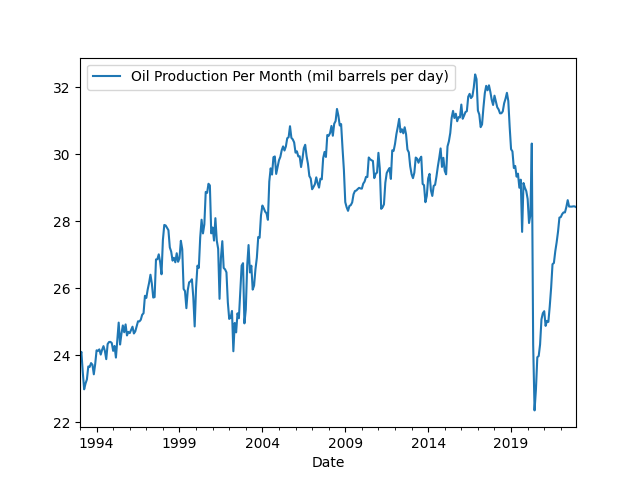
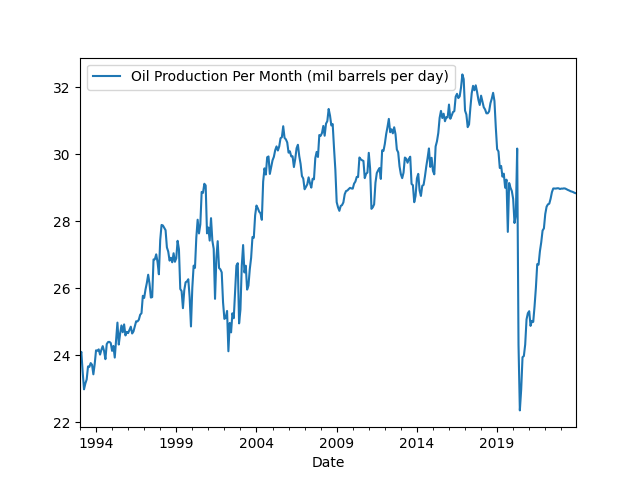
-

diff --git a/en/README.md b/en/README.md
@@ -67,17 +67,23 @@ amount of goods, it chases after more amt of goods - no inflation.
 ---
 
 Because businesses work on credit, and credit is always newly printed
-money, when businesses hand out salaries they are handing out new
-money. That could result in inflation.
+money, so when businesses hand out salaries they are handing out that
+new money. That could result in inflation.
 
 "If printing money and handing it to people creates inflation why do
 wage increases cause inflation?"
 
 ---
 
-Gas prices were pretty high during W even higher than
-now.. Interesting, the uptrend seems to have started at around 2003 --
-after the invasion of Iraq? Major uptick again post Libya 2011.
+Opec oil production is down for sure.
+
+[[-]](2019/05/stats.md#opec)
+
+---
+
+Gas prices were high during W, even higher than now.. Interesting, the
+uptrend seems to have started at around 2003 -- after the invasion of
+Iraq? Major uptick again post Libya 2011.
 
 [[-]](2019/05/stats.md#gasoline)
 
@@ -93,7 +99,7 @@ California's high-speed train project. States offload too much onto
 the private sector, they are not retaining the key skills in their own
 bureucracies who can plan, manage? 2014, CA outsources to a company
 called Dragados, 'cost reduction' ended up costing *more*. How did
-that slip by?
+that slip by the officials?
 
 ---
 

diff --git a/en/2019/05/stats.md b/en/2019/05/stats.md
@@ -752,11 +752,11 @@ plt.savefig('opec.png')
 
 ```text
 Date
-2022-12-01    28.425791
-2022-11-01    28.447132
-2022-10-01    28.448527
-2022-09-01    28.439812
-2022-08-01    28.441152
+2023-12-01    28.838708
+2023-11-01    28.850048
+2023-10-01    28.871389
+2023-09-01    28.887729
+2023-08-01    28.899069
 Name: 1, dtype: float64
 ```
 
